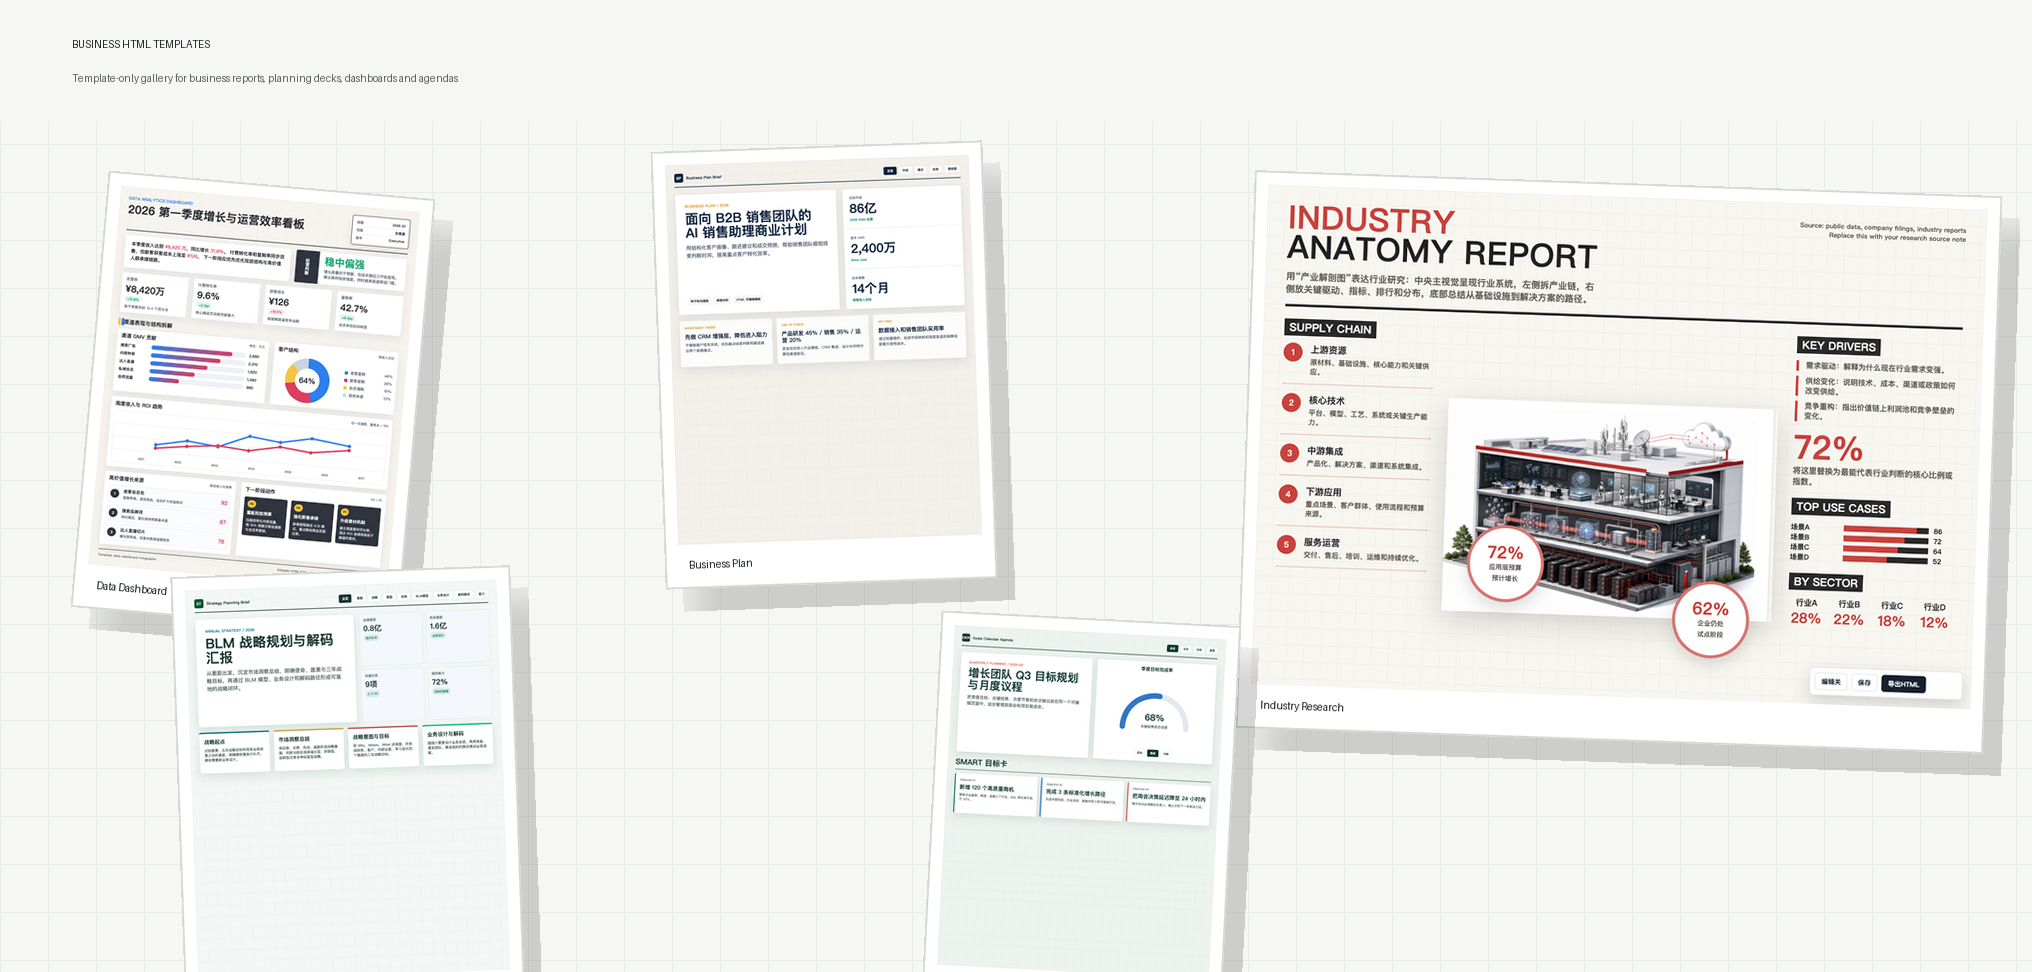
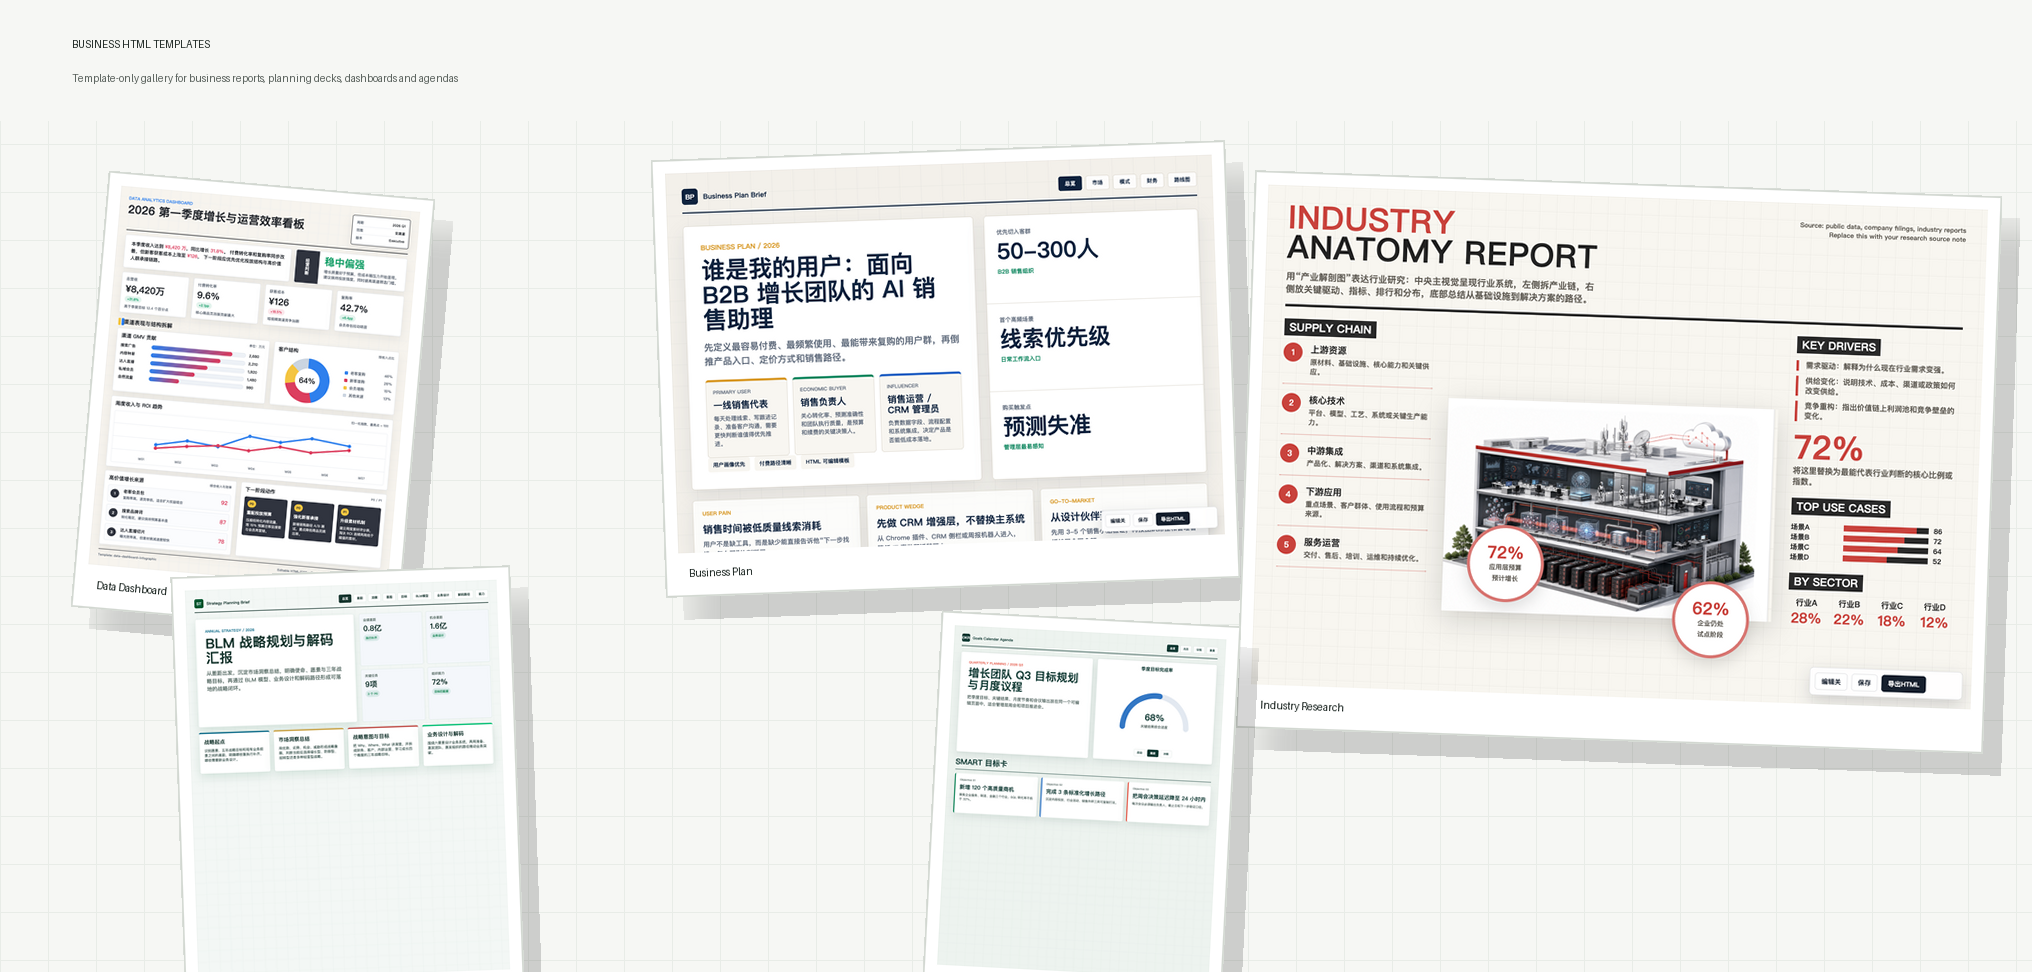
Redesign business plan user persona overview

Changed region(s): [[0.31, 0.1543, 0.6201, 0.6481]]

diff --git a/business-plan-brief/examples/ai-sales-assistant-business-plan.html b/business-plan-brief/examples/ai-sales-assistant-business-plan.html
@@ -194,6 +194,54 @@
       font-weight: 900;
     }
 
+    .user-map {
+      display: grid;
+      grid-template-columns: repeat(3, 1fr);
+      gap: 14px;
+      margin-top: 30px;
+    }
+
+    .user-card {
+      min-height: 170px;
+      padding: 18px;
+      border: 1px solid var(--line);
+      border-top: 6px solid var(--gold);
+      border-radius: 8px;
+      background: var(--paper-soft);
+    }
+
+    .user-card:nth-child(2) {
+      border-top-color: var(--green);
+    }
+
+    .user-card:nth-child(3) {
+      border-top-color: var(--blue);
+    }
+
+    .user-card span {
+      display: block;
+      margin-bottom: 12px;
+      color: var(--muted);
+      font-size: 13px;
+      font-weight: 950;
+      text-transform: uppercase;
+    }
+
+    .user-card strong {
+      display: block;
+      margin-bottom: 10px;
+      font-size: 24px;
+      line-height: 1.15;
+    }
+
+    .user-card p {
+      margin: 0;
+      color: var(--muted);
+      font-size: 15px;
+      line-height: 1.48;
+      font-weight: 650;
+    }
+
     .hero-metrics {
       display: grid;
       gap: 0;
@@ -463,10 +511,12 @@
       .two-col,
       .component-grid,
       .kpi-grid,
+      .user-map,
       .overview-strip,
       .roadmap {
         min-height: auto;
         display: grid;
+        grid-template-columns: 1fr;
         gap: 16px;
       }
 
@@ -510,47 +560,64 @@
       <div class="hero-copy">
         <div>
           <p class="eyebrow">Business Plan / 2026</p>
-          <h1>面向 B2B 销售团队的 AI 销售助理商业计划</h1>
-          <p class="lead">用结构化客户画像、跟进建议和成交预测，帮助销售团队缩短线索判断时间，提高重点客户转化效率。</p>
+          <h1>谁是我的用户：面向 B2B 增长团队的 AI 销售助理</h1>
+          <p class="lead">先定义最容易付费、最频繁使用、最能带来复购的用户群，再倒推产品入口、定价方式和销售路径。</p>
+          <div class="user-map" aria-label="目标用户画像">
+            <article class="user-card">
+              <span>Primary User</span>
+              <strong>一线销售代表</strong>
+              <p>每天处理线索、写跟进记录、准备客户沟通，需要更快判断谁值得优先推进。</p>
+            </article>
+            <article class="user-card">
+              <span>Economic Buyer</span>
+              <strong>销售负责人</strong>
+              <p>关心转化率、预测准确性和团队执行质量，是预算和续费的关键决策人。</p>
+            </article>
+            <article class="user-card">
+              <span>Influencer</span>
+              <strong>销售运营 / CRM 管理员</strong>
+              <p>负责数据字段、流程配置和系统集成，决定产品是否能低成本落地。</p>
+            </article>
+          </div>
         </div>
         <div class="hero-actions">
-          <span>种子轮沟通版</span>
-          <span>保密材料</span>
+          <span>用户画像优先</span>
+          <span>付费路径清晰</span>
           <span>HTML 可编辑模板</span>
         </div>
       </div>
       <aside class="hero-metrics">
         <article>
-          <span>目标市场</span>
-          <strong>86亿</strong>
-          <em>2026 SAM 估算</em>
+          <span>优先切入客群</span>
+          <strong>50-300人</strong>
+          <em>B2B 销售组织</em>
         </article>
         <article>
-          <span>首年 ARR</span>
-          <strong>2,400万</strong>
-          <em>Base case</em>
+          <span>首个高频场景</span>
+          <strong>线索优先级</strong>
+          <em>日常工作流入口</em>
         </article>
         <article>
-          <span>回本周期</span>
-          <strong>14个月</strong>
-          <em>销售投入回收</em>
+          <span>购买触发点</span>
+          <strong>预测失准</strong>
+          <em>管理层最易感知</em>
         </article>
       </aside>
       <div class="overview-strip">
         <article>
-          <span>Investment Thesis</span>
-          <strong>先做 CRM 增强层，降低进入阻力</strong>
-          <p>不替换客户现有系统，优先解决线索判断和跟进建议两个高频痛点。</p>
+          <span>User Pain</span>
+          <strong>销售时间被低质量线索消耗</strong>
+          <p>用户不是缺工具，而是缺少能直接告诉他“下一步找谁、怎么跟”的判断层。</p>
         </article>
         <article>
-          <span>Use of Funds</span>
-          <strong>产品研发 45% / 销售 35% / 运营 20%</strong>
-          <p>资金优先投入行业模板、CRM 集成、设计伙伴转付费和渠道验证。</p>
+          <span>Product Wedge</span>
+          <strong>先做 CRM 增强层，不替换主系统</strong>
+          <p>从 Chrome 插件、CRM 侧栏或周报机器人进入，降低 IT 审批和迁移阻力。</p>
         </article>
         <article>
-          <span>Key Risk</span>
-          <strong>数据接入和销售团队采用率</strong>
-          <p>通过轻量插件、标准字段映射和周度复盘机制降低部署与使用成本。</p>
+          <span>Go-To-Market</span>
+          <strong>从设计伙伴到团队扩席</strong>
+          <p>先用 3-5 个销售小组验证，再按团队席位和管理看板扩展合同金额。</p>
         </article>
       </div>
     </section>

diff --git a/business-plan-brief/template.html b/business-plan-brief/template.html
@@ -194,6 +194,54 @@
       font-weight: 900;
     }
 
+    .user-map {
+      display: grid;
+      grid-template-columns: repeat(3, 1fr);
+      gap: 14px;
+      margin-top: 30px;
+    }
+
+    .user-card {
+      min-height: 170px;
+      padding: 18px;
+      border: 1px solid var(--line);
+      border-top: 6px solid var(--gold);
+      border-radius: 8px;
+      background: var(--paper-soft);
+    }
+
+    .user-card:nth-child(2) {
+      border-top-color: var(--green);
+    }
+
+    .user-card:nth-child(3) {
+      border-top-color: var(--blue);
+    }
+
+    .user-card span {
+      display: block;
+      margin-bottom: 12px;
+      color: var(--muted);
+      font-size: 13px;
+      font-weight: 950;
+      text-transform: uppercase;
+    }
+
+    .user-card strong {
+      display: block;
+      margin-bottom: 10px;
+      font-size: 24px;
+      line-height: 1.15;
+    }
+
+    .user-card p {
+      margin: 0;
+      color: var(--muted);
+      font-size: 15px;
+      line-height: 1.48;
+      font-weight: 650;
+    }
+
     .hero-metrics {
       display: grid;
       gap: 0;
@@ -463,10 +511,12 @@
       .two-col,
       .component-grid,
       .kpi-grid,
+      .user-map,
       .overview-strip,
       .roadmap {
         min-height: auto;
         display: grid;
+        grid-template-columns: 1fr;
         gap: 16px;
       }
 
@@ -510,47 +560,64 @@
       <div class="hero-copy">
         <div>
           <p class="eyebrow">Business Plan / 2026</p>
-          <h1>面向 B2B 销售团队的 AI 销售助理商业计划</h1>
-          <p class="lead">用结构化客户画像、跟进建议和成交预测，帮助销售团队缩短线索判断时间，提高重点客户转化效率。</p>
+          <h1>谁是我的用户：面向 B2B 增长团队的 AI 销售助理</h1>
+          <p class="lead">先定义最容易付费、最频繁使用、最能带来复购的用户群，再倒推产品入口、定价方式和销售路径。</p>
+          <div class="user-map" aria-label="目标用户画像">
+            <article class="user-card">
+              <span>Primary User</span>
+              <strong>一线销售代表</strong>
+              <p>每天处理线索、写跟进记录、准备客户沟通，需要更快判断谁值得优先推进。</p>
+            </article>
+            <article class="user-card">
+              <span>Economic Buyer</span>
+              <strong>销售负责人</strong>
+              <p>关心转化率、预测准确性和团队执行质量，是预算和续费的关键决策人。</p>
+            </article>
+            <article class="user-card">
+              <span>Influencer</span>
+              <strong>销售运营 / CRM 管理员</strong>
+              <p>负责数据字段、流程配置和系统集成，决定产品是否能低成本落地。</p>
+            </article>
+          </div>
         </div>
         <div class="hero-actions">
-          <span>种子轮沟通版</span>
-          <span>保密材料</span>
+          <span>用户画像优先</span>
+          <span>付费路径清晰</span>
           <span>HTML 可编辑模板</span>
         </div>
       </div>
       <aside class="hero-metrics">
         <article>
-          <span>目标市场</span>
-          <strong>86亿</strong>
-          <em>2026 SAM 估算</em>
+          <span>优先切入客群</span>
+          <strong>50-300人</strong>
+          <em>B2B 销售组织</em>
         </article>
         <article>
-          <span>首年 ARR</span>
-          <strong>2,400万</strong>
-          <em>Base case</em>
+          <span>首个高频场景</span>
+          <strong>线索优先级</strong>
+          <em>日常工作流入口</em>
         </article>
         <article>
-          <span>回本周期</span>
-          <strong>14个月</strong>
-          <em>销售投入回收</em>
+          <span>购买触发点</span>
+          <strong>预测失准</strong>
+          <em>管理层最易感知</em>
         </article>
       </aside>
       <div class="overview-strip">
         <article>
-          <span>Investment Thesis</span>
-          <strong>先做 CRM 增强层，降低进入阻力</strong>
-          <p>不替换客户现有系统，优先解决线索判断和跟进建议两个高频痛点。</p>
+          <span>User Pain</span>
+          <strong>销售时间被低质量线索消耗</strong>
+          <p>用户不是缺工具，而是缺少能直接告诉他“下一步找谁、怎么跟”的判断层。</p>
         </article>
         <article>
-          <span>Use of Funds</span>
-          <strong>产品研发 45% / 销售 35% / 运营 20%</strong>
-          <p>资金优先投入行业模板、CRM 集成、设计伙伴转付费和渠道验证。</p>
+          <span>Product Wedge</span>
+          <strong>先做 CRM 增强层，不替换主系统</strong>
+          <p>从 Chrome 插件、CRM 侧栏或周报机器人进入，降低 IT 审批和迁移阻力。</p>
         </article>
         <article>
-          <span>Key Risk</span>
-          <strong>数据接入和销售团队采用率</strong>
-          <p>通过轻量插件、标准字段映射和周度复盘机制降低部署与使用成本。</p>
+          <span>Go-To-Market</span>
+          <strong>从设计伙伴到团队扩席</strong>
+          <p>先用 3-5 个销售小组验证，再按团队席位和管理看板扩展合同金额。</p>
         </article>
       </div>
     </section>

diff --git a/README.md b/README.md
@@ -48,7 +48,7 @@ Best for BLM strategy planning, gap analysis, market insight, strategic intent, 
 
 ![Business Plan](business-plan-brief/screenshots/cover.png)
 
-Best for startup pitches, internal proposals, investment-style business cases, roadmap planning, and financial path explanations.
+Best for business plans that need to answer "who is my user", buyer roles, first use case, pricing entry point, go-to-market path, and financial logic.
 
 ### Industry Research Report
 
@@ -67,7 +67,7 @@ Best for OKR planning, monthly calendars, weekly agendas, project cadence, owner
 | Scenario | Template | Best For |
 | --- | --- | --- |
 | Data dashboard | [`data-dashboard-infographic`](data-dashboard-infographic/template.html) | KPI reviews, financial summaries, operating dashboards, growth dashboards |
-| Business plan | [`business-plan-brief`](business-plan-brief/template.html) | Startup pitches, internal proposals, investment-style business cases |
+| Business plan | [`business-plan-brief`](business-plan-brief/template.html) | User personas, buyer roles, first use case, go-to-market path, investment-style business cases |
 | Strategy planning | [`strategy-planning-brief`](strategy-planning-brief/template.html) | BLM strategy planning, gap analysis, market insight, strategic intent, strategy decoding |
 | Industry research | [`industry-research-report`](industry-research-report/template.html) | Market sizing, industry chain, trend analysis, competition matrix, conclusions |
 | Goals and agenda | [`goals-calendar-agenda`](goals-calendar-agenda/template.html) | OKR planning, monthly calendars, weekly agendas, project cadence |